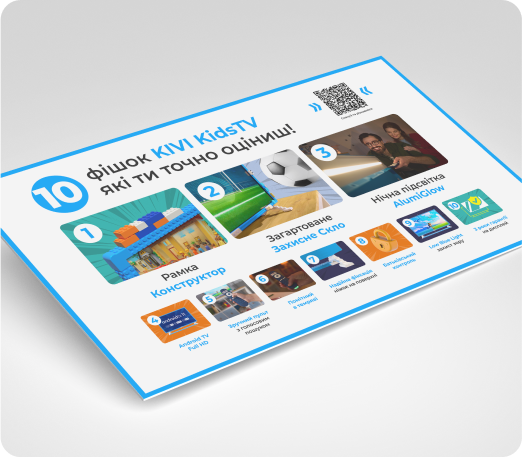
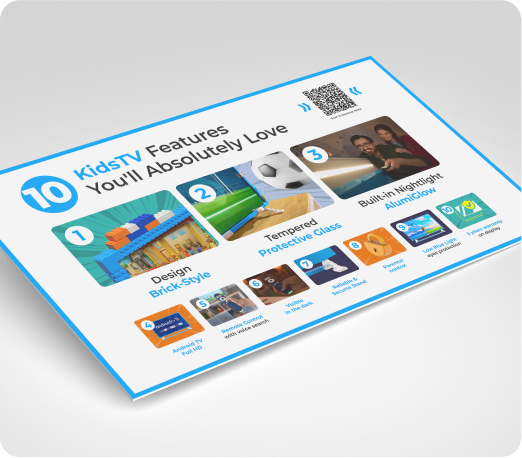
some fixes

Changed region(s): [[0.0, 0.1223, 1.0, 0.8865]]

diff --git a/index.html b/index.html
@@ -103,7 +103,7 @@
             <ul class="features-list list">
               <li class="features-item">
                 <img src="./img/features/features-1.jpg" alt="Buildable Block-Style rame" />
-                <p class="features-text">Buildable<br />Block-Style<br />Design</p>
+                <p class="features-text">Buildable<br />Brick-Style<br />Design</p>
                 <a href="#buildable-block" class="features-link link"></a>
               </li>
               <li class="features-item">
@@ -140,7 +140,7 @@
           <div class="frame-tv-trigger"></div>
           <div class="container">
             <div class="info-wrap">
-              <h2 class="section-title section-title-mb">Buildable Block-Style Design</h2>
+              <h2 class="section-title section-title-mb">Buildable Brick-Style Design</h2>
               <p>
                 This USP enables product enhancement with additional accessories, driving higher
                 ASP.

diff --git a/js/submit.js b/js/submit.js
@@ -10,7 +10,7 @@ const emailError = document.getElementById('email-error');
 const messageError = document.getElementById('message-error');
 
 function validateName(name) {
-  return /^[A-Za-zА-Яа-яЁёІіЇїЄєҐґ]{2,}$/.test(name.trim());
+  return /^[A-Za-zА-Яа-яЁёІіЇїЄєҐґ]{2,}(?: [A-Za-zА-Яа-яЁёІіЇїЄєҐґ]{2,})*$/.test(name.trim());
 }
 
 function validateEmail(email) {
